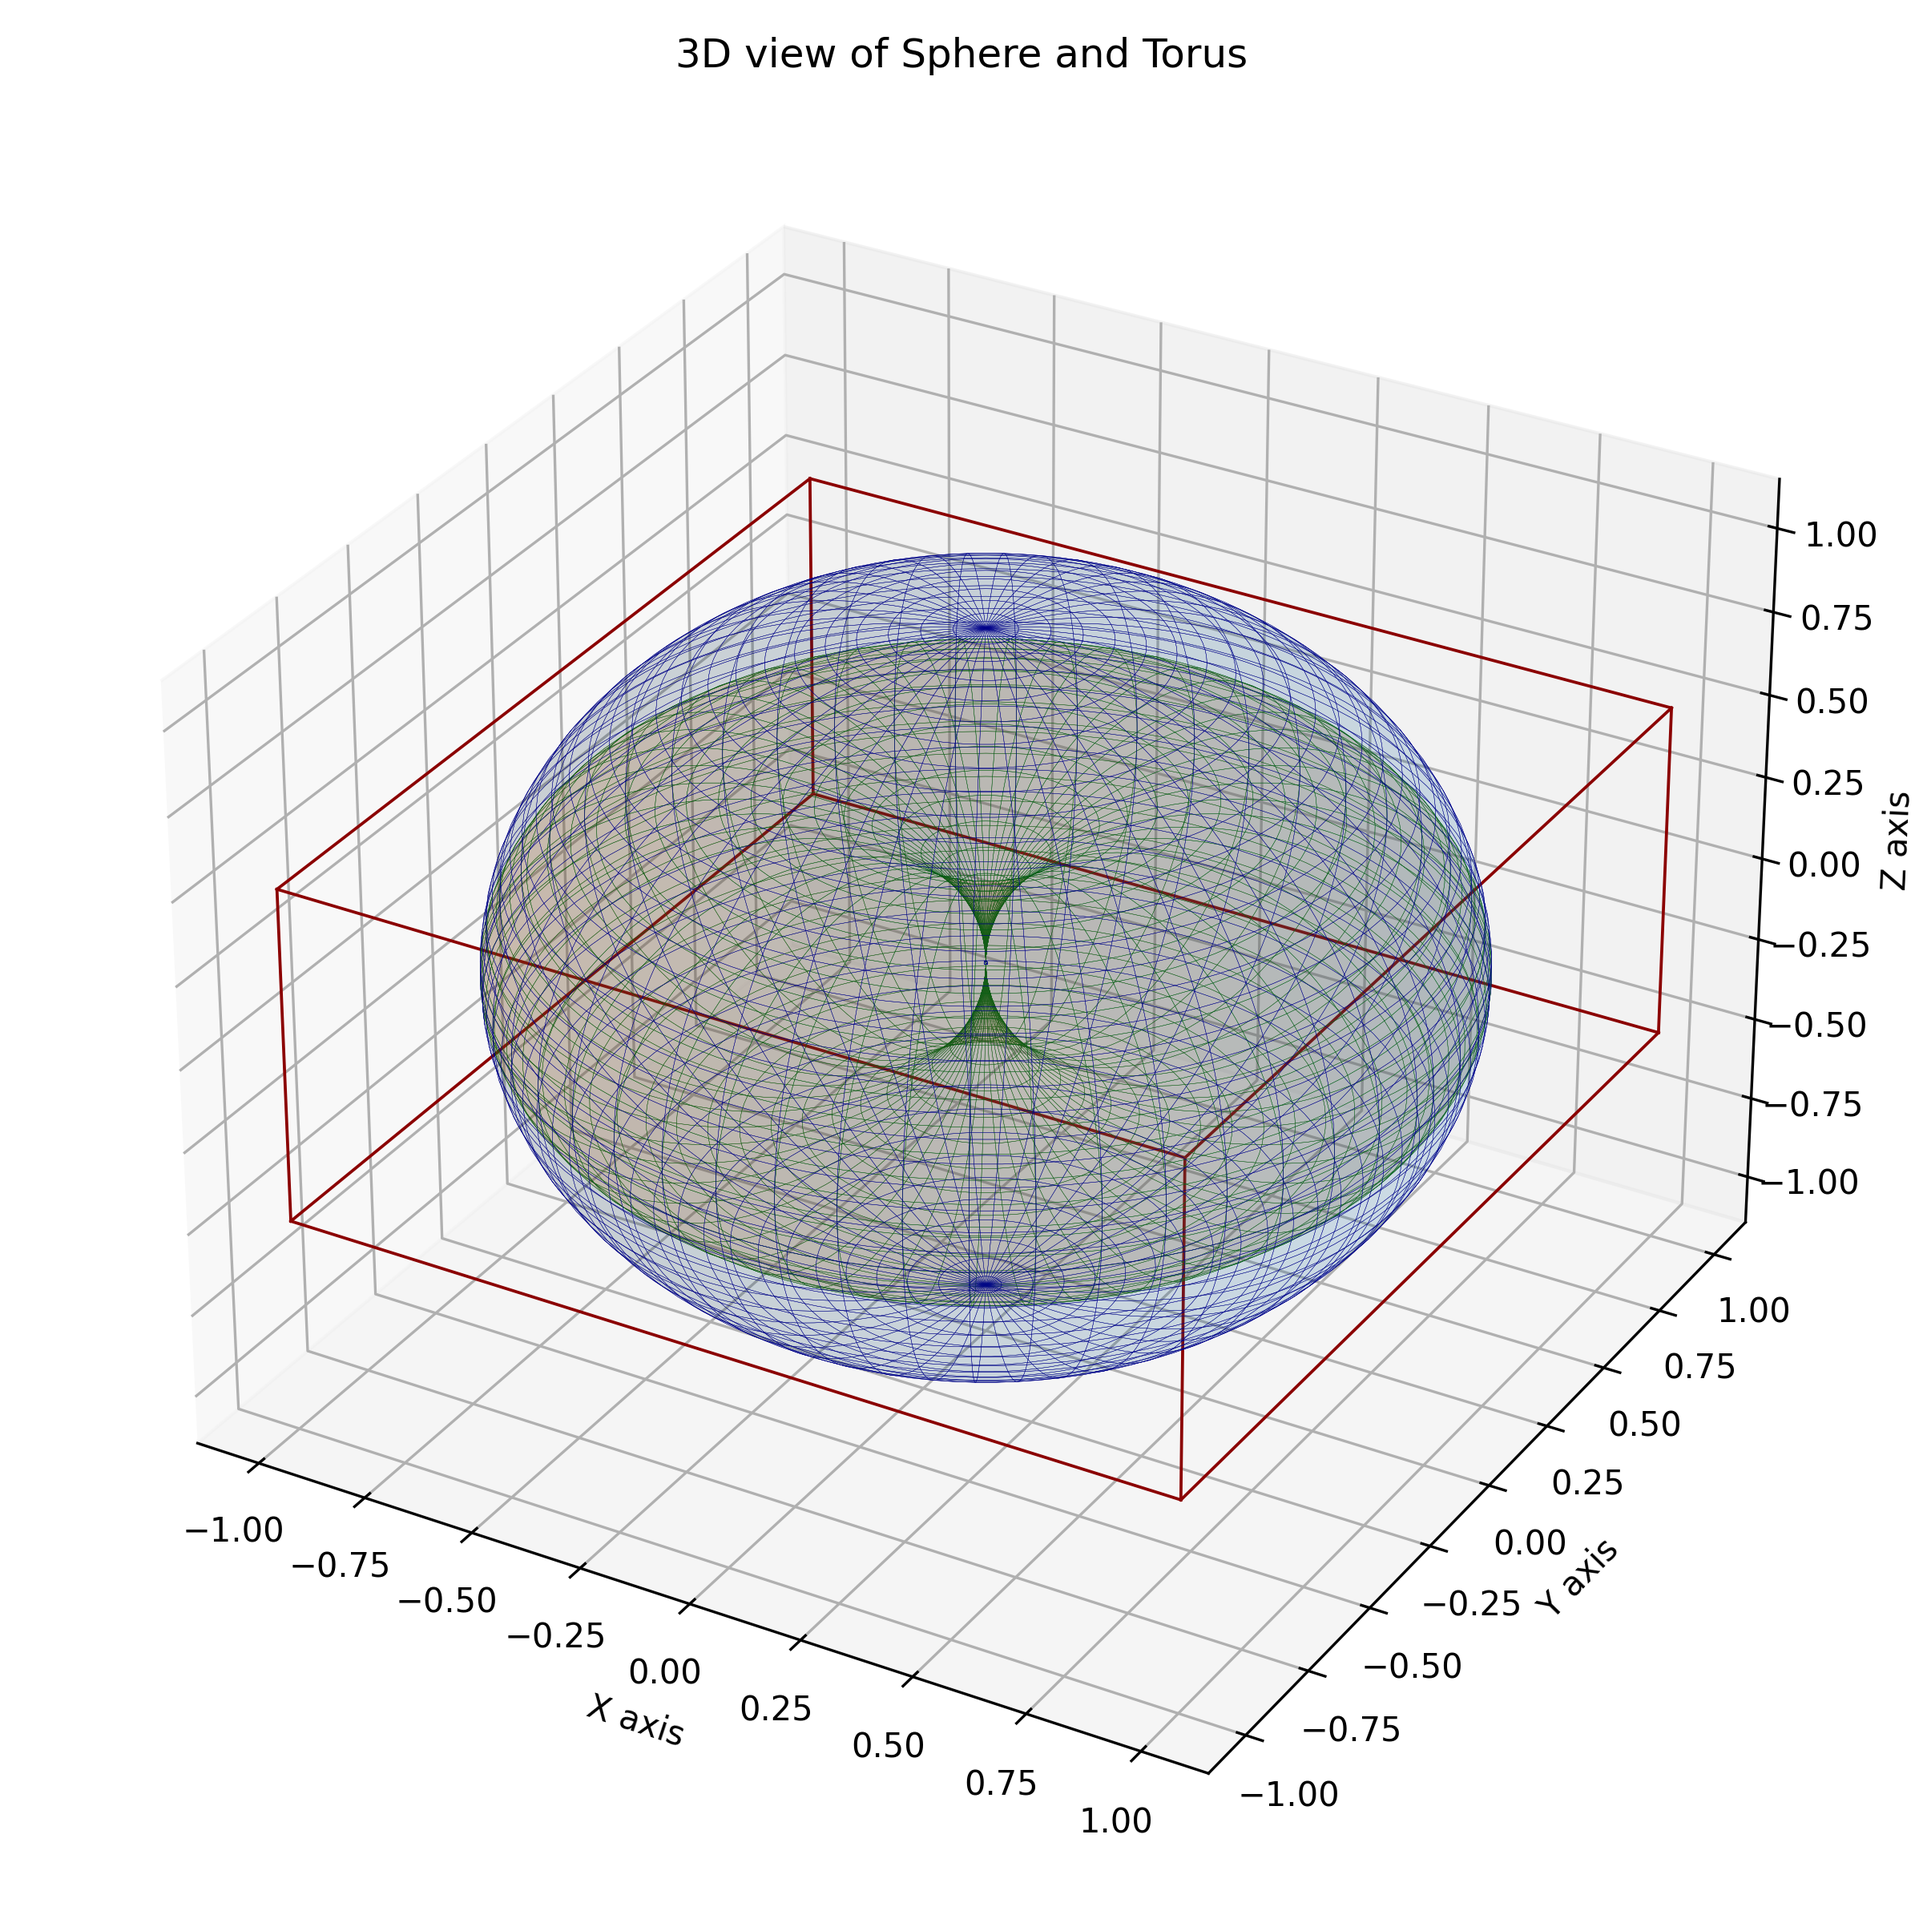
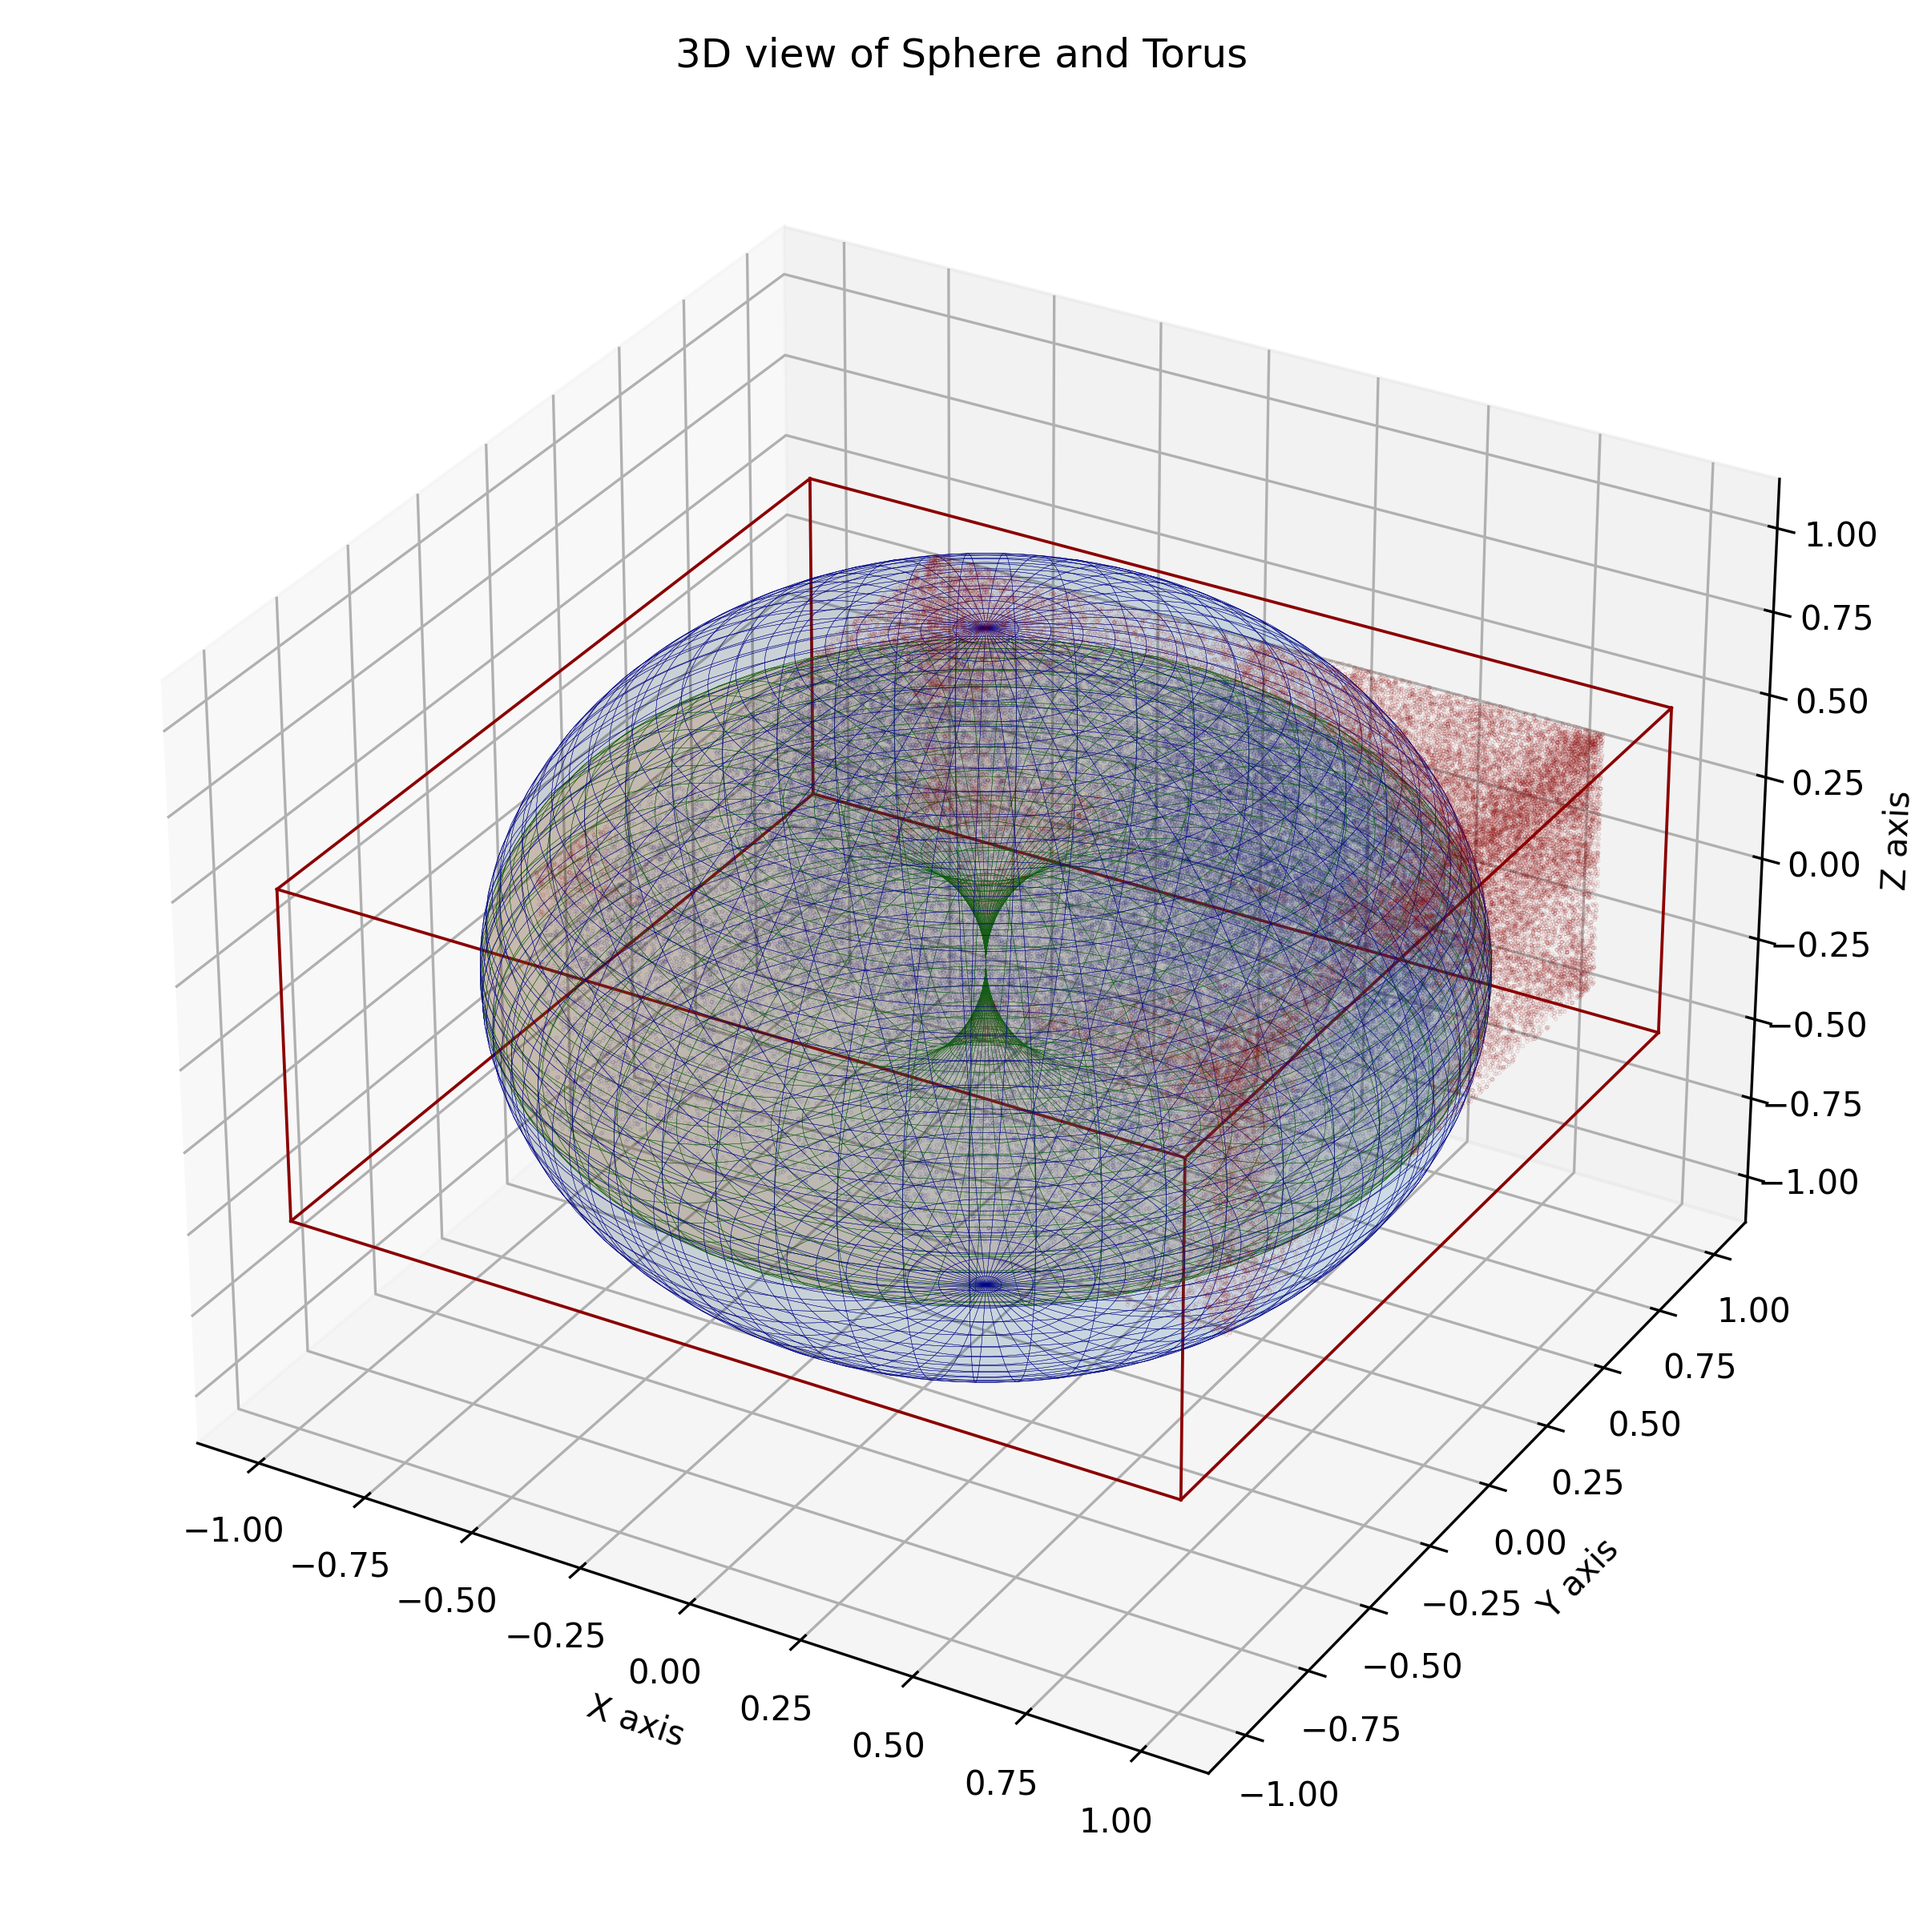
final Qs and fixed mixed sampling

Changed region(s): [[0.2812, 0.2812, 0.8438, 0.6875]]

diff --git a/main.py b/main.py
@@ -6,11 +6,8 @@ from scipy.stats import norm
 from itertools import combinations, product
 from mpl_toolkits.axes_grid1 import host_subplot
 from matplotlib.axes import Axes
-<<<<<<< Updated upstream
 from numba import njit
 from scipy.stats import norm
-=======
->>>>>>> Stashed changes
 from tqdm import tqdm
 
 
@@ -168,14 +165,8 @@ def monte_carlo_3d(
     """
     box = box_standard(r, R, origin=origin)  # or box_sample(r, R)
     if deterministic:
-<<<<<<< Updated upstream
         box = np.array(box, dtype=np.float64)
         pts = deterministic_sequence(np.random.uniform(0, 1, 3), box)
-=======
-        pts = deterministic_sequence(np.mean(box, axis=1), n)
-        print(box)
-        print(pts)
->>>>>>> Stashed changes
     else:
         pts = samples(box, n)  # deterministic_sequence(box, n)
 
@@ -220,11 +211,11 @@ def mixed_sampling(
     pts2 = samples(box2, n2)
 
     # --- Evaluate intersection for box1 ---
-    mask1 = sphere(pts1, k) & torus(pts1, r, R)
+    mask1 = sphere(pts1, k) & torus(pts1, r, R, origin=origin)
     count1 = np.count_nonzero(mask1)
 
     # --- Evaluate intersection for box2 ---
-    mask2 = sphere(pts2, k) & torus(pts2, r, R)
+    mask2 = sphere(pts2, k) & torus(pts2, r, R, origin=origin)
     count2 = np.count_nonzero(mask2)
 
     # --- Combine estimates (weighted average) ---
@@ -313,6 +304,7 @@ def deterministic_sequence(
     z = np.empty(n)
 
     x[0], y[0], z[0] = points[0], points[1], points[2]
+
     for i in range(1, n):
         x[i] = 3.8 * x[i - 1] * (1 - x[i - 1])
         y[i] = 3.8 * y[i - 1] * (1 - y[i - 1])
@@ -700,7 +692,7 @@ def plot_mix_2d(
     box1 = box_standard(r, R, origin=origin_t)
     box2 = box_sample(r, R, origin=origin_t)
 
-    if pts.shape[1] == 3:
+    if pts1.shape[1] == 3:
 
         rect1 = mpatches.Rectangle(
             (box1[0][0], box1[2][0]),
@@ -875,12 +867,15 @@ def plot_volume_histogram(
     """
     Plots histograms of volume estimates with Gaussian fits for multiple cases.
     """
+    rows = int(len(list_of_volumes) // 2)
+    cols = 2
     fig, axs = plt.subplots(
-        int(len(list_of_volumes) / 2),
-        2,
-        figsize=(4 * len(list_of_volumes), 8),
+        rows,
+        cols,
+        figsize=(4 * cols, 4 * rows),
         sharex="col",
     )
+    axs = np.atleast_2d(axs)
     n = len(list_of_volumes[0])
     for i, volumes in enumerate(list_of_volumes):
         # histogram
@@ -949,12 +944,12 @@ if __name__ == "__main__":
     R_b = 0.5
     n = 100_000  # Monte Carlo samples
     origin_shift = [0.0, 0.0, 0.1]
-    n_runs = 10
+    n_runs = 1000
 
     Q1 = False
-    Q2 = True
+    Q2 = False
     Q3 = False
-    PSWEEP = False
+    PSWEEP = True
 
     # Question 1: volume of intersection between sphere and torus.
     if Q1:
@@ -1025,9 +1020,19 @@ if __name__ == "__main__":
         )
 
         plot_volume_histogram(
-            [volumes_a, volumes_b, volumes_a_2d, volumbes_b_2d],
-            ["Case A 3D", "Case B 3D", "Case A 2D", "Case B 2D"],
-            "img/volume_histograms.png",
+            [
+                volumes_a,
+                volumes_b,
+                volumes_a_2d,
+                volumbes_b_2d,
+            ],
+            [
+                "Case A 3D",
+                "Case B 3D",
+                "Case A 2D",
+                "Case B 2D",
+            ],
+            "img/q1_volume_histograms.png",
         )
 
     # Question 2: change in estimate and error for determinstic sequence
@@ -1042,7 +1047,6 @@ if __name__ == "__main__":
             volumes_deterministic_a, estimated_volume_deterministic_a
         )
 
-        print(volumes_deterministic_a)
         avg_volume_deterministic_a = np.mean(volumes_deterministic_a)
         std_volume_deterministic_a = np.std(volumes_deterministic_a)
 
@@ -1076,6 +1080,15 @@ if __name__ == "__main__":
         )
         print(
             f"Q2, Deterministic Case B || Mean: {avg_volume_deterministic_b:.9f} || Standard Deviation: {std_volume_deterministic_b:.9f}"
+        )
+
+        plot_volume_histogram(
+            [
+                volumes_deterministic_a,
+                volumes_deterministic_b,
+            ],
+            ["Case A Deterministic", "Case B Deterministic"],
+            "img/q2_volume_histograms.png",
         )
 
     # Question 3: Off center torus
@@ -1126,7 +1139,13 @@ if __name__ == "__main__":
             r_a,
             R_a,
             origin_t=origin_shift,
+            save_path="img/q3b_2d.png",
+            pts1=pts1,
+            pts1_in=pts1_in,
+            pts2=pts2,
+            pts2_in=pts2_in,
         )
+
         print(
             f"Q3, b) || Mean: {avg_volume_mixed:.9f} || Standard Deviation: {std_volume_mixed:.9f}"
         )
@@ -1167,9 +1186,9 @@ if __name__ == "__main__":
         plt.close()
 
     # --- Generate results table ---
-    names_methods = ["Mixed Sampling", "2D MC", "3D MC", "Deterministic Sequence"]
-    means, std = generate_dataframe(k, r_a, R_a, n=100)
-    generate_table(means, std, names_methods)
-    count_monte_det, (pts_monte_det, pts_in_monte_det) = monte_carlo_3d(
-        k, r_a, R_a, deterministic=True
-    )
+    # names_methods = ["Mixed Sampling", "2D MC", "3D MC", "Deterministic Sequence"]
+    # means, std = generate_dataframe(k, r_a, R_a, n=100)
+    # generate_table(means, std, names_methods)
+    # count_monte_det, (pts_monte_det, pts_in_monte_det) = monte_carlo_3d(
+    #    k, r_a, R_a, deterministic=True
+    # )
